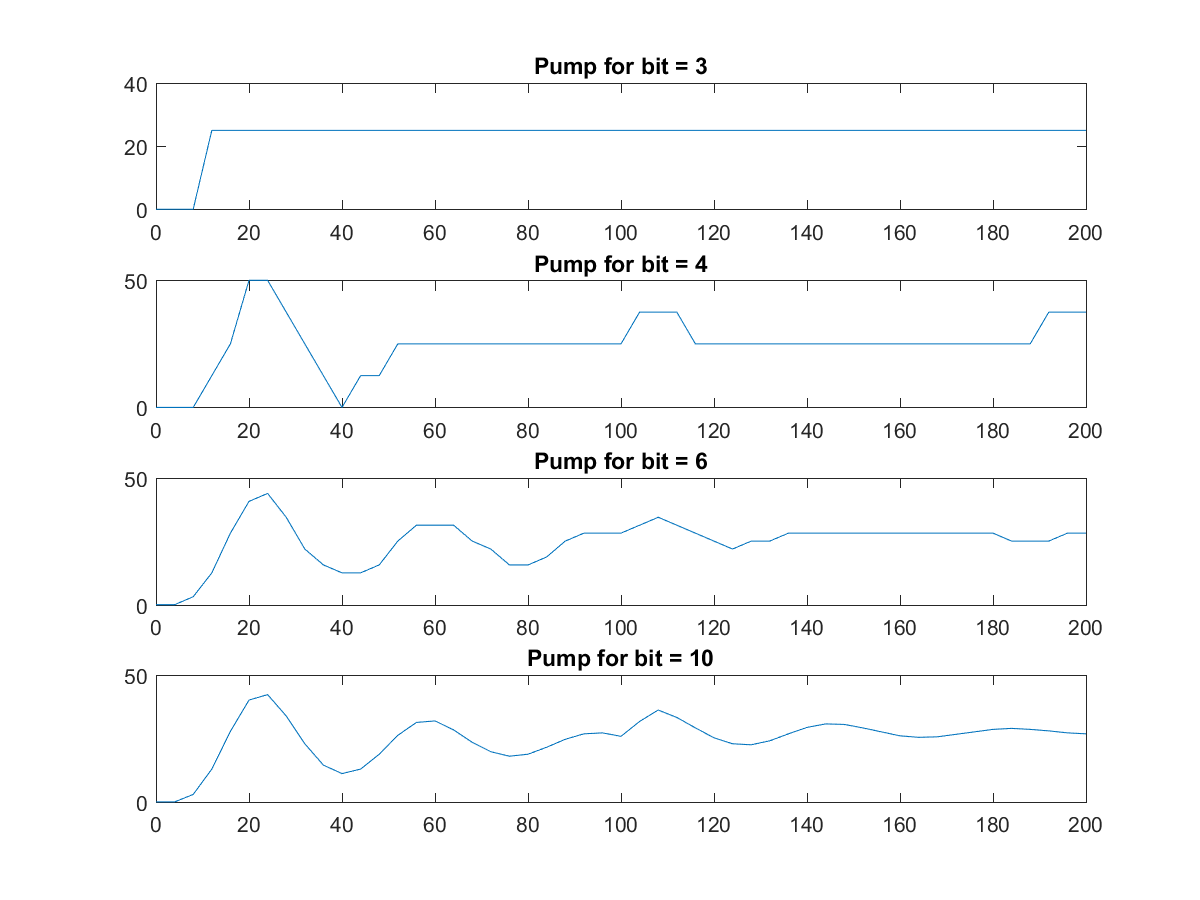
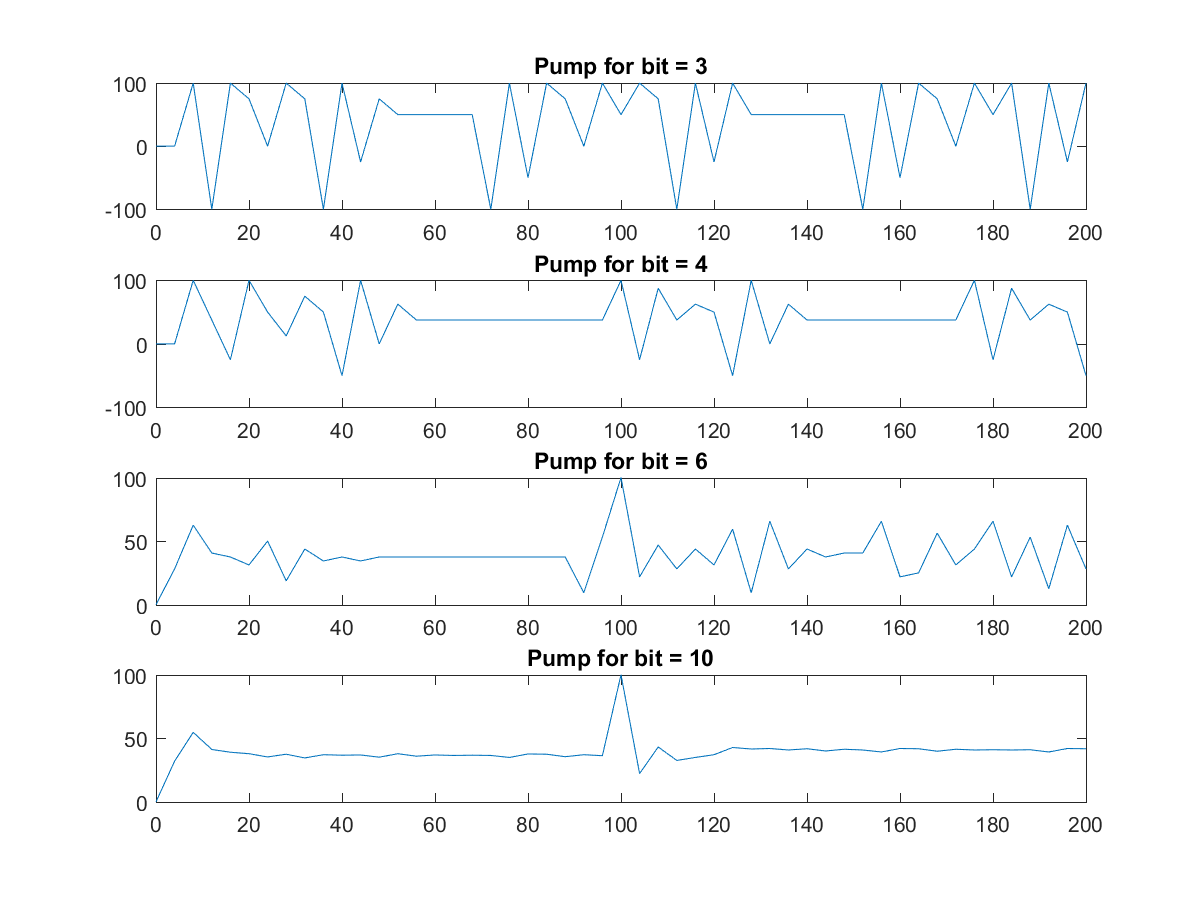
Fixed the matlab. Changed all controller state spaces to be for F and not GC

diff --git a/Homework1/Code/pid_design.m b/Homework1/Code/pid_design.m
@@ -50,7 +50,7 @@ stepinfo(Gc)
 % Figure 200: h1
 % Figure 201: h2
 % Figure 202: pump
-ZOH_all = 1:0.5:2.5;
+ZOH_all = 1:2:10;
 
 for i = 1:length(ZOH_all)
     ZOH = ZOH_all(i);
@@ -145,35 +145,30 @@ Ts = 4;
 %Gdcshit = c2d(Gc, Ts, 'zoh') %It is really bad tbh
 %[Ad, Bd, Cd, Dd] = tf2ss(Gdcshit.num{1}, Gdcshit.den{1})
 %sim('tanks_discrete')
-for i = 1:length(Ts_all)
-    Ts = Ts_all(i);
-    F_dg = c2d(Gc, Ts, 'zoh');
+%for i = 1:length(Ts_all)
+    F_dg = c2d(F, Ts, 'zoh');
     [Ad,Bd,Cd,Dd] = tf2ss(F_dg.num{1}, F_dg.den{1});
     % Simulate system
-    %sim('tanks_discrete')
+    sim('tanks_discrete')
     % h1
     figure(420)
-    subplot(length(Ts_all), 1, i)
+    subplot(3, 1, 1)
     plot(h1_d.Time, h1_d.Data)
     title(sprintf('h1 for Ts=%1.1f', Ts))
     % h2
-    figure(421)
-    subplot(length(Ts_all), 1, i)
+    subplot(3, 1, 2)
     plot(h2_d.Time, h2_d.Data)
     hold on
     plot(ref.Time, ref.Data)
     hold off
     title(sprintf('h2 for Ts=%1.1f', Ts))
     % pump
-    figure(422)
-    subplot(length(Ts_all),1,i)
+    subplot(3,1,3)
     plot(pump_d.Time, pump_d.Data)
     title(sprintf('Pump for Ts=%1.1f', Ts))
     
-end
-print(420, '-dpng', '.\images\h1_Gdc_c2d')
-print(421, '-dpng', '.\images\h2_Gdc_c2d')
-print(422, '-dpng', '.\images\pump_Gdc_c2d')
+%
+print(420, '-dpng', '.\images\4s_samplings')
 
 % h1
 figure(600)
@@ -278,28 +273,31 @@ fprintf('Gc:\n')
 exp(Ts*pole(minreal((Gc))))
 fprintf('Gdc:\n')
 pole(minreal(Gdc))
-[Ad, Bd, Cd, Dd] = tf2ss(Gdc.num{1}, Gdc.den{1})
-sim('tanks_discrete')
+%[Ad, Bd, Cd, Dd] = tf2ss(Gdc.num{1}, Gdc.den{1});
+
 for i = 1:length(all_quants)
-quant = 200/2^all_quants(i);
-%F_d4s = c2d(F, Ts, 'zoh');  % Discrete controller with 4s sampling
-%[Ad4,Bd4,Cd4,Dd4] = tf2ss(F_dg.num{1}, F_dg.den{1});    % ss representation
-sim('tanks_discrete')   % Simulate the system
-% h1
-figure(300)
-subplot(length(all_quants), 1, i)
-plot(h1_d.Time, h1_d.Data)
-title(sprintf('h1 for bit = %d', all_quants(i)))
-% h2
-figure(301)
-subplot(length(all_quants), 1, i)
-plot(h2_d.Time, h2_d.Data)
-title(sprintf('h2 for bit = %d', all_quants(i)))
-% pump
-figure(302)
-subplot(length(all_quants),1,i)
-plot(pump_d.Time, pump_d.Data)
-title(sprintf('Pump for bit = %d', all_quants(i)))
+    quant = 200/2^all_quants(i);
+    %F_d4s = c2d(F, Ts, 'zoh');  % Discrete controller with 4s sampling
+    [Ad,Bd,Cd,Dd] = tf2ss(Fd.num{1}, Fd.den{1});    % ss representation
+    sim('tanks_quant')   % Simulate the system
+    % h1
+    figure(300)
+    subplot(length(all_quants), 1, i)
+    plot(h1_d.Time, h1_d.Data)
+    title(sprintf('h1 for bit = %d', all_quants(i)))
+    % h2
+    figure(301)
+    subplot(length(all_quants), 1, i)
+    plot(h2_d.Time, h2_d.Data)
+    hold on
+    plot(ref.Time, ref.Data)
+    hold off
+    title(sprintf('h2 for bit = %d', all_quants(i)))
+    % pump
+    figure(302)
+    subplot(length(all_quants),1,i)
+    plot(pump_d.Time, pump_d.Data)
+    title(sprintf('Pump for bit = %d', all_quants(i)))
 end
 print(300, '-dpng', '.\images\h1_quant_samplings')
 print(301, '-dpng', '.\images\h2_quant_samplings')
@@ -308,7 +306,7 @@ fprintf('Question 17\n')
 % Compare with Q 11
 % Simulate system
 quant = 1/2^10
-sim('tanks_discrete')
+sim('tanks_quant')
 % h1
 figure(500)
 subplot(3, 1, 1)
@@ -317,6 +315,9 @@ title(sprintf('h1 for Ts=%1.1f', Ts))
 % h2
 subplot(3, 1, 2)
 plot(h2_d.Time, h2_d.Data)
+hold on
+plot(ref.Time, ref.Data)
+hold off
 title(sprintf('h2 for Ts=%1.1f', Ts))
 % pump
 subplot(3,1,3)
